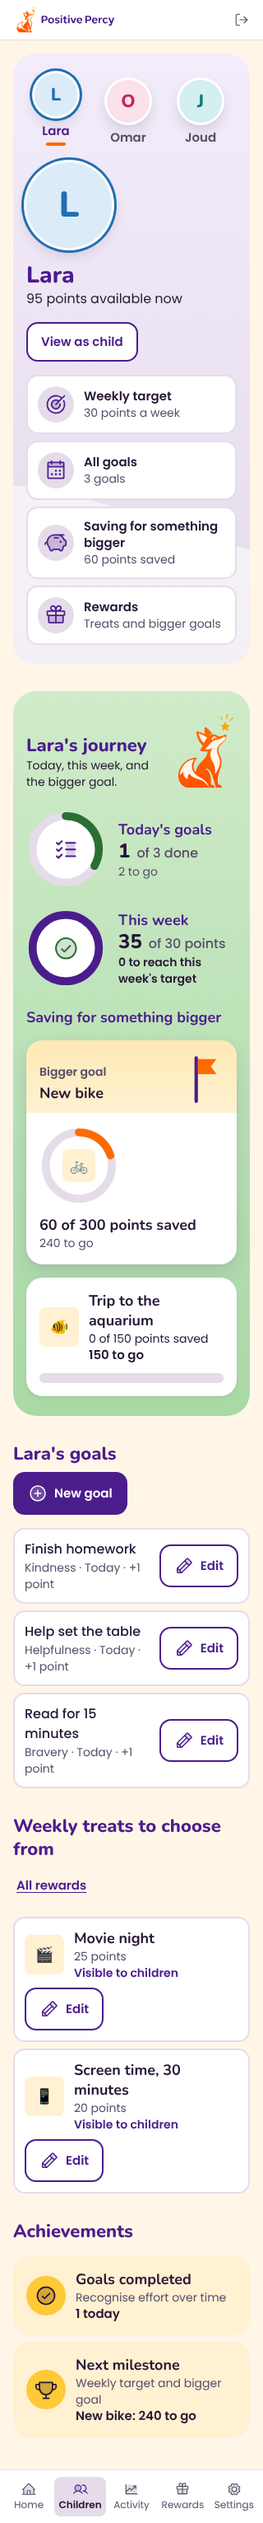
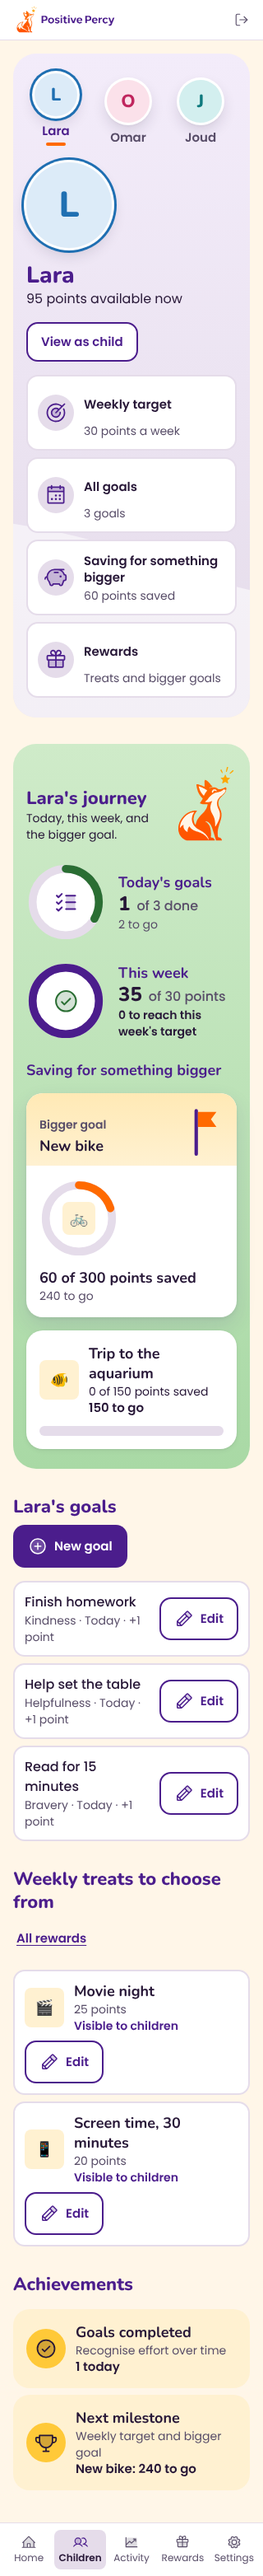
fix(v1.1): meet the repo's e2e layout contract; e2e updated for V1.1 Home
- Quick Point tiles: icon part tagged, equal heights, names start level
  (e2e/checks.js even-tile contract); Manage labels are 44px targets
- Screen-reader page title uses the repo's sr-only class
- e2e: Home layout checks moved to the V1.1 contract; child picked by
  name; Children heading is the child's name (listed in P3_HANDBACK.md)
- App QA control updated so it can still fail

Claude-Session: https://claude.ai/code/session_01S1yExfNAhm1AwiwanVucDR

diff --git a/e2e/ui.spec.js b/e2e/ui.spec.js
@@ -52,71 +52,47 @@ test('home does not show the empty Quick Points message while behaviours load', 
 test('home, its dialogs and the Undo toast', async ({ page }, testInfo) => {
   await go(page, '/');
   await checkScreen(page, 'home', testInfo);
-  // V1 Home: family strip selects the child; Goals before the summary.
-  await expect(page.getByRole('heading', { name: 'Welcome back!' })).toBeVisible();
-  const sam = page.getByRole('group', { name: 'Choose a child' }).getByRole('button', { name: /^Sam / });
+  // V1.1 Home (design/v11; owner review 23 Nov 2026): the daily action centre.
+  // Child picker and balance in the hero, then Quick Points, Today's Goals and
+  // what the child is working towards. Progress rings belong to Children.
+  await expect(page.locator('#home-title')).toHaveText(/^What went well for .+ today\?$/);
+  const sam = page.getByRole('group', { name: 'Choose a child' }).getByRole('button', { name: 'Sam', exact: true });
   await sam.click();
   await expect(sam).toHaveAttribute('aria-pressed', 'true');
   await expect(page.getByText("Sam's checklist")).toBeVisible();
-  // Owner, 22 November: awarding points is the point of this page. The order
-  // is the child picker, then Quick Points, Today's Goals, the available
-  // points ("Little wins") and what the child is working towards. The DOM
-  // (Tab and screen-reader) order is that reading order (review of PR #57).
-  // One column (under 1024px): the cards stack in that order. Two columns:
-  // Quick Points then Today's Goals on the left, Little wins then Working
-  // towards on the right, the two columns equally wide.
-  // Nothing sits between the child picker and Quick Points. On a screen at
-  // least 800px tall the card starts on the first screen. (This fixture's
-  // long child name makes the picker tall: at 320x568 the heading starts at
-  // about 570px here, and at about 430px for a family with short names.)
   const order = await page.evaluate(() => {
     window.scrollTo(0, 0);
-    const titles = ['Quick Points', "Today's Goals", 'Little wins, big adventures!', "What you're working towards"];
+    const titles = ['Quick Points', "Today's Goals", "What you're working towards"];
     const hs = titles.map((t) => [...document.querySelectorAll('h2')].find((h) => h.textContent.trim() === t));
     if (hs.some((h) => !h)) return { missing: titles.filter((_, i) => !hs[i]) };
     const domOrdered = hs.every((h, i) => i === 0 || !!(hs[i - 1].compareDocumentPosition(h) & Node.DOCUMENT_POSITION_FOLLOWING));
-    // The column that holds two cards: the nearest element containing both headings.
-    const columnOf = (a, b) => { let el = a.parentElement; while (el && !el.contains(b)) el = el.parentElement; return el; };
-    const left = columnOf(hs[0], hs[1]);
-    const right = columnOf(hs[2], hs[3]);
-    const box = (el) => { const r = el.getBoundingClientRect(); return { top: Math.round(r.top), bottom: Math.round(r.bottom), left: Math.round(r.left), right: Math.round(r.right), width: Math.round(r.width) }; };
-    const picker = document.querySelector('[role="group"][aria-label="Choose a child"]').getBoundingClientRect();
+    const hero = document.querySelector('.pv-scene--morning');
     const boxes = hs.map((h) => h.getBoundingClientRect());
+    const quick = hs[0].closest('section');
     return { domOrdered, tops: boxes.map((b) => Math.round(b.top)), lefts: boxes.map((b) => Math.round(b.left)),
-      pickerBottom: Math.round(picker.bottom), screen: window.innerHeight, oneColumn: window.innerWidth < 1024,
-      separateColumns: left !== right && !left.contains(right) && !right.contains(left),
-      left: box(left), right: box(right),
-      leftCards: [...left.children].map(box), rightCards: [...right.children].map(box),
-      quickCardHasAward: !!left.children[0] && left.children[0].contains(hs[0]) && [...left.children[0].querySelectorAll('button')].some((b) => b.textContent.trim() === 'Award points') };
+      heroBottom: Math.round(hero.getBoundingClientRect().bottom), screen: window.innerHeight, oneColumn: window.innerWidth < 834,
+      balanceInHero: !!hero.querySelector('[data-available]'), pickerInHero: !!hero.querySelector('[role="group"][aria-label="Choose a child"]'),
+      rings: document.querySelectorAll('.pv-ring').length,
+      quickHasAward: [...quick.querySelectorAll('button')].some((b) => b.textContent.trim() === 'Award points') };
   });
   expect(order.missing, 'every Home section is present').toBeUndefined();
-  expect(order.domOrdered, 'DOM order: Quick Points, Goals, Little wins, Working towards').toBe(true);
-  const [quickTop, goalsTop, winsTop, towardsTop] = order.tops;
-  const [quickLeft, goalsLeft, winsLeft, towardsLeft] = order.lefts;
-  expect(quickTop, 'Quick Points comes after the child picker').toBeGreaterThan(order.pickerBottom);
-  // The gap between cards (20px) plus the card's own padding, and nothing else.
-  expect(quickTop - order.pickerBottom, 'Quick Points is the first thing under the child picker').toBeLessThanOrEqual(48);
+  expect(order.domOrdered, 'DOM order: Quick Points, Goals, Working towards').toBe(true);
+  expect(order.pickerInHero && order.balanceInHero, 'the child picker and the balance are in the hero').toBe(true);
+  expect(order.rings, 'Home has no progress rings (the balance is a number)').toBe(0);
+  expect(order.quickHasAward, 'Award points sits in the Quick Points section').toBe(true);
+  const [quickTop, goalsTop, towardsTop] = order.tops;
+  const [quickLeft, goalsLeft, towardsLeft] = order.lefts;
+  expect(quickTop, 'Quick Points comes after the hero').toBeGreaterThan(order.heroBottom);
+  expect(quickTop - order.heroBottom, 'nothing between the hero and Quick Points but the gap').toBeLessThanOrEqual(48);
   if (order.screen >= 800) expect(quickTop, 'Quick Points starts on the first screen').toBeLessThan(order.screen);
-  expect(quickTop, "Quick Points is above Today's Goals").toBeLessThan(goalsTop);
-  expect(winsTop, 'Little wins is above Working towards').toBeLessThan(towardsTop);
-  // Two cards a column, nothing between them but the gap, and the Quick
-  // Points card is the whole card (its Award points button is in it).
-  expect(order.separateColumns, 'the two pairs of cards are in separate columns').toBe(true);
-  expect(order.leftCards.length, 'left column: Quick Points and Goals only').toBe(2);
-  expect(order.rightCards.length, 'right column: Little wins and Working towards only').toBe(2);
-  expect(order.quickCardHasAward, 'the first card is Quick Points, with its Award points button').toBe(true);
-  expect(order.leftCards[1].top - order.leftCards[0].bottom, 'the gap between Quick Points and Goals').toBe(20);
-  expect(order.rightCards[1].top - order.rightCards[0].bottom, 'the gap between Little wins and Working towards').toBe(20);
+  expect(goalsTop, "Today's Goals is above Working towards").toBeLessThan(towardsTop);
   if (order.oneColumn) {
-    expect(goalsTop, "one column: Today's Goals is above Little wins").toBeLessThan(winsTop);
-    expect(new Set(order.lefts).size, 'one column: every card starts at the same left edge').toBe(1);
-    expect(order.right.top - order.left.bottom, 'one column: the gap between Goals and Little wins').toBe(20);
+    expect(quickTop, "one column: Quick Points is above Today's Goals").toBeLessThan(goalsTop);
+    expect(new Set(order.lefts).size, 'one column: every section starts at the same left edge').toBe(1);
   } else {
-    expect(goalsLeft, "two columns: Today's Goals is under Quick Points, in the left column").toBe(quickLeft);
-    expect(towardsLeft, 'two columns: Working towards is under Little wins, in the right column').toBe(winsLeft);
-    expect(order.right.left, 'two columns: the right column starts after the left one ends').toBeGreaterThan(order.left.right);
-    expect(Math.abs(order.left.width - order.right.width), 'two columns: equally wide').toBeLessThanOrEqual(1);
-    expect(Math.abs(order.right.top - order.left.top), 'two columns: the columns start level').toBeLessThanOrEqual(1);
+    expect(goalsLeft, "two columns: Today's Goals is in the right column").toBeGreaterThan(quickLeft);
+    expect(towardsLeft, 'two columns: Working towards is under Today\'s Goals').toBe(goalsLeft);
+    expect(Math.abs(goalsTop - quickTop), 'two columns: the columns start level').toBeLessThanOrEqual(1);
   }
 
   // V1-D (D5): a child's request shows in the parent's Rewards dialog; "Not this time" removes it.
@@ -127,7 +103,7 @@ test('home, its dialogs and the Undo toast', async ({ page }, testInfo) => {
   const cheap = await (await page.request.post('/api/rewards', { headers, data: { title: 'Sticker ' + testInfo.project.name, cost_points: 1, emoji: '⭐', visible_to_child: true } })).json();
   expect((await page.request.post(`/api/children/${samId}/stack/add`, { headers, data: { reward_id: cheap.id } })).status()).toBe(200);
   await go(page, '/');
-  await page.getByRole('group', { name: 'Choose a child' }).getByRole('button', { name: /^Sam / }).click();
+  await page.getByRole('group', { name: 'Choose a child' }).getByRole('button', { name: 'Sam', exact: true }).click();
   await page.getByRole('button', { name: /^Rewards$/ }).last().click();
   const spend = page.getByRole('dialog');
   await expect(spend.getByRole('heading', { name: 'Sam asked for' })).toBeVisible();

diff --git a/src/styles/percy-v11.css b/src/styles/percy-v11.css
@@ -27,7 +27,6 @@
 }
 .pv > *, .pv-col > * { min-width: 0; }
 .pv-col { display: grid; gap: var(--pv-space-6); align-content: start; min-width: 0; }
-.pv-sr { position: absolute; width: 1px; height: 1px; overflow: hidden; clip-path: inset(50%); white-space: nowrap; }
 
 /* ---- Type roles. Sentence case and no tracking, as everywhere in Percy. ---- */
 .pv-t-hero, .pv-t-page, .pv-t-section, .pv-t-card { overflow-wrap: anywhere; hyphens: auto; margin: 0; }
@@ -171,7 +170,7 @@
 }
 
 /* ---- QuickPointTile: two across, one across when text is large ---- */
-.pv-quick { display: grid; grid-template-columns: repeat(auto-fit, minmax(min(100%, 8.5rem), 1fr)); gap: var(--pv-space-3); }
+.pv-quick { display: grid; grid-template-columns: repeat(auto-fit, minmax(min(100%, 8.5rem), 1fr)); grid-auto-rows: 1fr; gap: var(--pv-space-3); }
 .pv-quick-tile {
   --tint: var(--pv-star-soft);
   position: relative; display: grid; grid-template-columns: auto 1fr; align-items: start; gap: var(--pv-space-3) var(--pv-space-2);
@@ -341,3 +340,8 @@
 
 .pv-heading-icon { display: flex; align-items: center; gap: var(--pv-space-2); }
 .pv-heading-icon svg { width: var(--pv-space-5); height: var(--pv-space-5); flex: none; }
+/* Tile contract (e2e/checks.js): every name starts at the same height under
+   the icon row, whatever its length; the Manage labels are 44px targets. */
+.pv-quick-tile { grid-template-rows: auto 1fr; }
+.pv-quick-tile__label { align-self: start; }
+.pv-manage-action__label { display: flex; align-items: center; min-height: var(--pv-tap); }

diff --git a/e2e/batch-e-goals.spec.js b/e2e/batch-e-goals.spec.js
@@ -20,7 +20,8 @@ test('parent can add, complete once, edit and archive a dated goal', async ({ pa
 
   await page.goto('/');
   await expect(page.getByRole('heading', { name: "Today's goals" })).toBeVisible();
-  await page.getByRole('button', { name: /^Sam \d+ \/ \d+ this week$/ }).click();
+  // V1.1 Home: the child picker names the child only (week figures are on Children).
+  await page.getByRole('group', { name: 'Choose a child' }).getByRole('button', { name: 'Sam', exact: true }).click();
   await page.getByRole('button', { name: 'Manage goals for Sam' }).click();
   const dialog = page.getByRole('dialog');
   await expect(dialog.getByRole('heading', { name: "Manage Sam's goals" })).toBeVisible();
@@ -73,8 +74,9 @@ test('E05: weekly goal - complete, undo, redo, rename keeps start, reschedule, s
   const title = 'Brush teeth ' + Date.now().toString(36) + Math.random().toString(36).slice(2, 5);
 
   await page.goto('/');
-  await page.getByRole('button', { name: /^Sam \d+ \/ \d+ this week$/ }).click();
-  await expect(page.getByRole('button', { name: /^Sam \d+ \/ \d+ this week$/ })).toHaveAttribute('aria-pressed', 'true');
+  const samChip = page.getByRole('group', { name: 'Choose a child' }).getByRole('button', { name: 'Sam', exact: true });
+  await samChip.click();
+  await expect(samChip).toHaveAttribute('aria-pressed', 'true');
   await page.getByRole('button', { name: 'Manage goals for Sam' }).click();
   const dialog = page.getByRole('dialog');
   await dialog.getByRole('button', { name: 'Add goal' }).click();

diff --git a/src/components/percy/HomeV11.jsx b/src/components/percy/HomeV11.jsx
@@ -66,7 +66,7 @@ export function HomeQuickPoints({ child, actions, awarding, onAward, onOpenAward
             // reader hears starts with what is shown ("Kindness +1 for Lara").
             <button key={action.id} type="button" className="pv-quick-tile" disabled={awarding} data-tile
               onClick={() => onAward(child, action)} aria-label={`${action.label} +${action.points} for ${child.name}`}>
-              <span className="pv-medallion" aria-hidden="true"><CategoryIcon iconKey={action.icon_key} className="h-6 w-6" /></span>
+              <span className="pv-medallion" aria-hidden="true" data-tile-part="icon"><CategoryIcon iconKey={action.icon_key} className="h-6 w-6" /></span>
               <span className="pv-quick-tile__label" data-tile-part="name">{action.label}</span>
               <span className="pv-quick-tile__points" data-tile-part="badge">+{action.points}</span>
             </button>

diff --git a/e2e/v1-journeys.spec.js b/e2e/v1-journeys.spec.js
@@ -94,7 +94,8 @@ test('child asks, parent approves, history and settings follow', async ({ page }
 
     // Parent, Children: the child's page and goals.
     await page.goto(`/children?child=${kid.id}`);
-    await expect(page.getByRole('heading', { name: `${name}'s page` })).toBeVisible();
+    // V1.1 Children: the child's profile heading is their name.
+    await expect(page.getByRole('heading', { name, exact: true, level: 2 })).toBeVisible();
     await expect(page.getByRole('heading', { name: `${name}'s goals` })).toBeVisible();
 
     // Parent, Settings: rename the family; it survives a reload.

diff --git a/src/pages/Children.jsx b/src/pages/Children.jsx
@@ -145,7 +145,7 @@ export default function Children() {
   // here: that is Home.
   return page(
     <div className="pv">
-      <h1 className="pv-sr">Children</h1>
+      <h1 className="sr-only">Children</h1>
       <section className="pv-scene pv-scene--journey" aria-labelledby="child-title">
         <SkyArt />
         <div className="pv-scene__sky"><ChildSelector children={ordered} selectedId={child.id} onSelect={setChildId} emphasise={false} /></div>

diff --git a/design/v11/P3_HANDBACK.md b/design/v11/P3_HANDBACK.md
@@ -68,6 +68,16 @@ Results with exact counts are in section 7 and the session handback.
 - **App QA on the real React pages** (`design/v11/qa/run-app-qa.mjs`, local server, fictional seeded families): six widths (320, 359, 360, 390, 834, 1280); six children with a long name; one child with nothing set up; 150% and 200% text; axe WCAG 2.1 A and AA inside the page; 44px targets; no text under 14px; nothing clipped or squeezed; real award, Undo, goal completion, focus to Done, child switching, and every dialog opening. Two control checks prove the target and type checks can fail.
 - **Repo suites:** `npm test`, `npm run lint`, `npm run check:tokens`, `npm run check:release-gates`, and the Playwright e2e suite at 320, 390 touch, 834 touch and 1280.
 
+### 5b. Test changes in the e2e suite
+
+| Spec | Change | Why |
+|---|---|---|
+| `e2e/ui.spec.js` "home, its dialogs and the Undo toast" | The V1 Home layout checks ("Welcome back!", the Little wins card, two-card columns from 22 Nov) replaced by the V1.1 contract: picker and balance in the hero, then Quick Points, Today's Goals, Working towards; Quick Points on the first screen; no rings on Home; column placement. Child chosen by name | Your direction of 23 Nov replaces the V1 Home layout. The dialog, request, Award, Undo, Manage goals, sign-out and onboarding checks are unchanged |
+| `e2e/batch-e-goals.spec.js` (2 tests) | Picks Sam by name in the child picker, not by "Sam 0 / 30 this week" | The V1.1 picker names the child only; week figures are on Children |
+| `e2e/v1-journeys.spec.js` | Children heading is the child's name, not "{name}'s page" | Profile heading |
+
+The repo's own layout checks (`e2e/checks.js`: sideways scroll, text under 12px, clipped text, even tiles, 44px targets) are unchanged and pass. Two fixes came from them: the Quick Point tile parts and names now meet the even-tile contract, and the Manage labels are 44px targets in themselves.
+
 ### 5a. Test changes in `src/pages/V1Children.test.jsx`
 
 | Test | Change | Kept |
